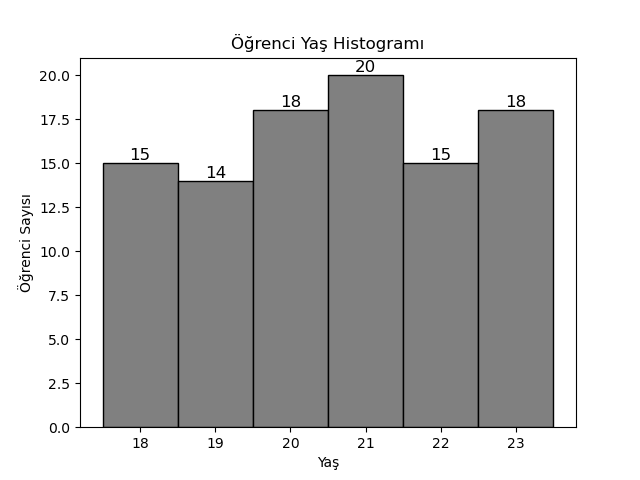
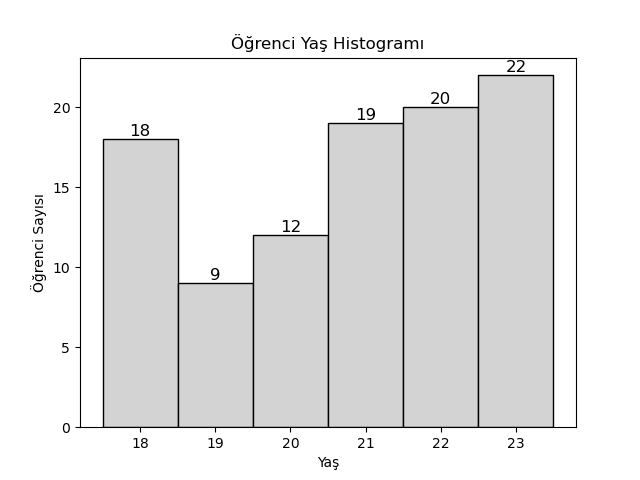
14. ve 15. Hafta materyalleri eklendi

diff --git a/lecture/week_15/student_age_histogram.py b/lecture/week_15/student_age_histogram.py
@@ -24,7 +24,7 @@ counts, bins, patches = plt.hist(
     ages,
     bins=np.arange(minAge - 0.5, maxAge + 0.5 + 1, 1),
     edgecolor='black',
-    color='gray'
+    color='lightgray'
 )
 for i, patch in enumerate(patches):
     x = patch.get_x() + patch.get_width() / 2

diff --git a/README.md b/README.md
@@ -10,5 +10,5 @@
 <p align="justify"><a href="https://github.com/mtahakoroglu/probability/tree/main/lecture/week_09_10">Hafta 9-10: ARA SINAV SORULARI ÇÖZÜMÜ</a></p>
 <p align="justify"><a href="https://github.com/mtahakoroglu/probability/tree/main/lecture/week_11_12">Hafta 11-12: BAYES</a></p>
 <p align="justify"><a href="https://github.com/mtahakoroglu/probability/tree/main/lecture/week_13">Hafta 13: BAYES - devam</a></p>
-<p align="justify"><a href="https://github.com/mtahakoroglu/probability/tree/main/lecture/week_14">Hafta 14: Rasgele Sayı Üretici ile Simülasyon</a></p>
+<p align="justify"><a href="https://github.com/mtahakoroglu/probability/tree/main/lecture/week_14">Hafta 14: Rasgele Sayı Üreteci ile Simülasyon</a></p>
 <p align="justify"><a href="https://github.com/mtahakoroglu/probability/tree/main/lecture/week_15">Hafta 15: Öğrenci Yaş Histogram - Python Kodu</a></p>
